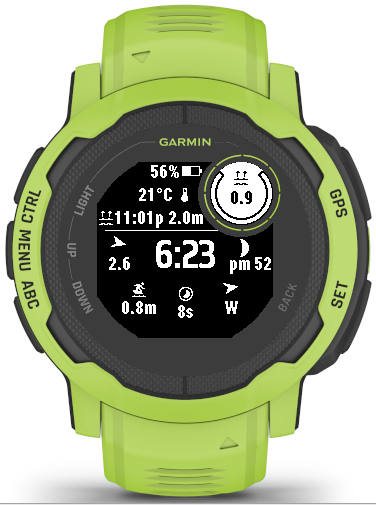
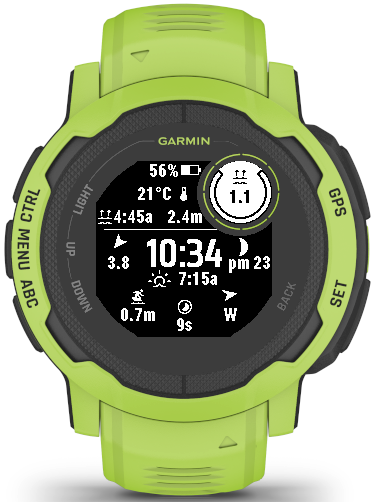
docs: Update screenshots, CHANGELOG, specs for v2.0.0 release
- Replaced swell view screenshot with updated layout (sunrise/sunset row)
- Regenerated annotated infographic
- CHANGELOG: added sunrise/sunset, OpenMeteoService, source switch fixes,
  tide curve optimization, WeatherSource value change
- Marked Task 25 complete

diff --git a/CHANGELOG.md b/CHANGELOG.md
@@ -21,12 +21,22 @@
 - WMO weather code mapper for Open-Meteo conditions
 - Precipitation probability from Open-Meteo when selected as source
 - Surf mode hourly wind forecast (Open-Meteo): 24h array, advances offline when phone disconnects
+- Surf mode sunrise/sunset for surf spot (computed locally, shown in swell view, hidden in tide curve view)
+- OpenMeteoService class: consolidates all Open-Meteo API calls (swell, weather, surf wind)
 
 ### Changed
 - Swell data source: StormGlass weather → Open-Meteo Marine (free, no quota)
 - StormGlass now used only for tide extremes (1 call/day)
 - Swell stored as 3 flat arrays in Application.Storage, advances hourly via updateSwellFromForecast()
 - Surf mode OWM call extracts only wind — does not pollute shore weather fields
+- WeatherSource setting: 0=Garmin, 1=Open-Meteo, 2=OWM (OWM moved from value 1 to 2)
+- Swell fetch moved from TideService to OpenMeteoService
+
+### Fixed
+- Weather data cleared on weather source switch to prevent condition code mismatch between mappers
+- Surf wind cleared on weather source switch (was showing stale data from previous source)
+- Surf tide data no longer overwrites shore tide cache (onTideData persists to correct prefixed keys)
+- Tide curve rendering optimized from O(N×M) to O(N+M) — pre-extracted flat arrays cached in DataManager
 
 ### Fixed
 - Weather icon mapping: 5 community-validated overrides for misleading Erik Flowers mappings

diff --git a/.kiro/specs/surf-mode/tasks.md b/.kiro/specs/surf-mode/tasks.md
@@ -144,7 +144,7 @@ Implement surf mode as an alternate watch face layout on top of the existing sho
 - [x] 25.2 Update store-description.txt
 - [x] 25.3 Update CHANGELOG
 - [x] 25.4 Update steering files (tech.md, product.md) with Open-Meteo weather API docs
-- [ ] 25.5 Regenerate screenshots and annotated diagrams for both modes
+- [x] 25.5 Regenerate screenshots and annotated diagrams for both modes
 
 ## Notes
 
